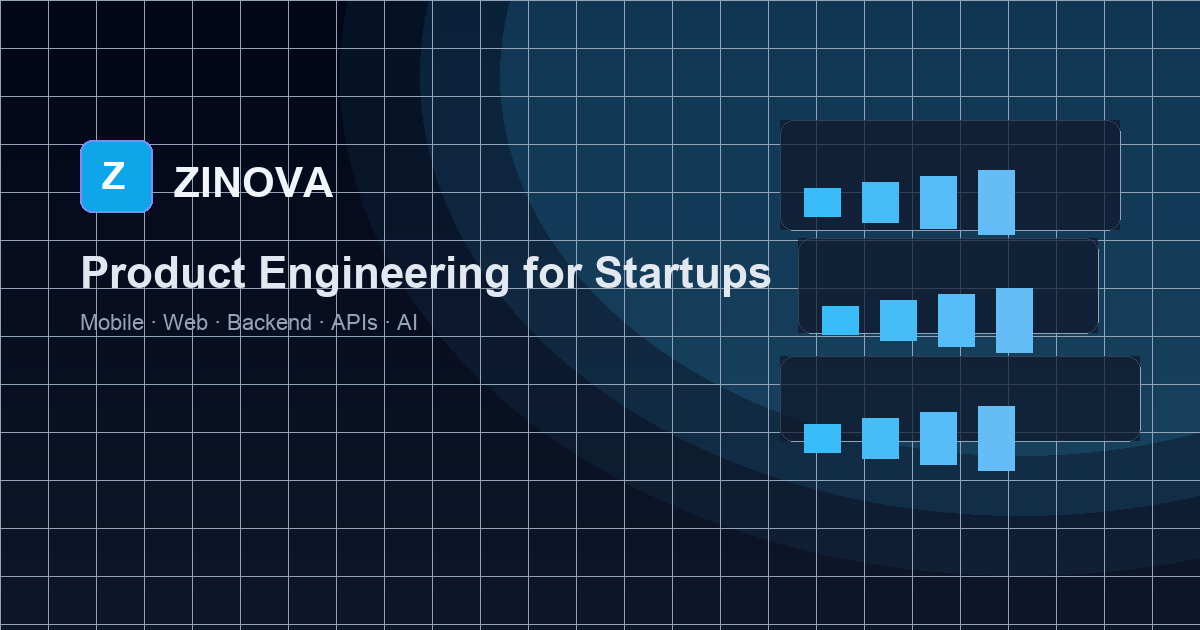
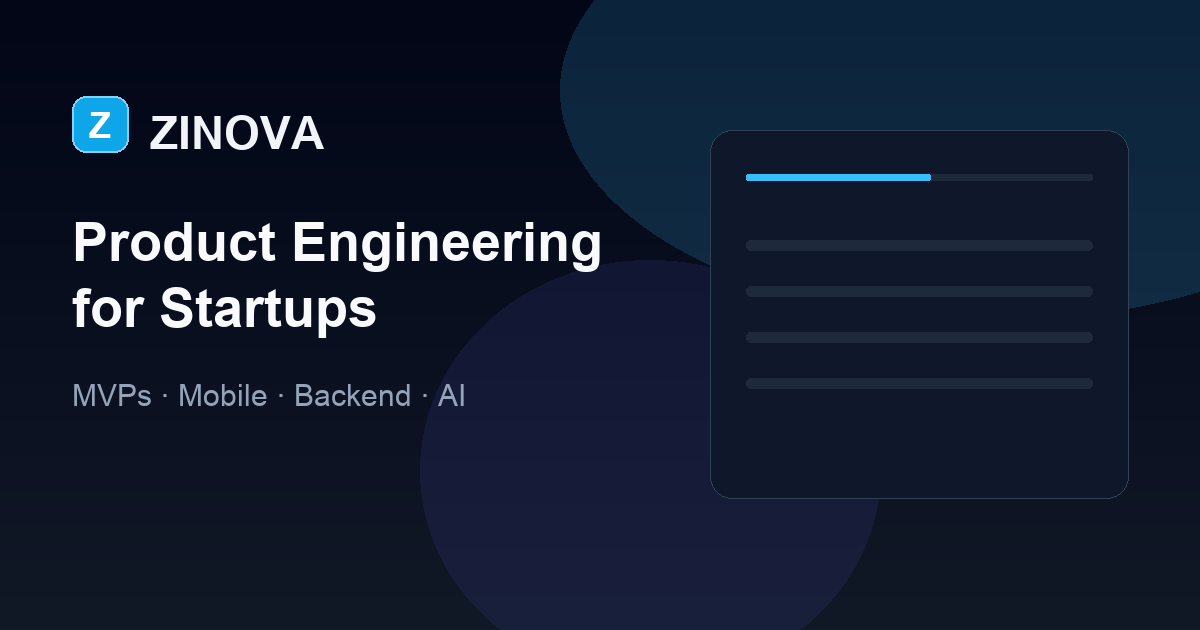
Fix mobile overflow and improve social preview image

Changed region(s): [[0.0308, 0.0, 1.0, 0.8444], [0.0617, 0.6032, 0.4008, 0.6635]]

diff --git a/assets/css/zinova-overrides.css b/assets/css/zinova-overrides.css
@@ -1,6 +1,18 @@
+html {
+  max-width: 100%;
+  overflow-x: hidden;
+}
+
 body {
   -webkit-font-smoothing: antialiased;
   -moz-osx-font-smoothing: grayscale;
+  max-width: 100%;
+  overflow-x: hidden;
+  position: relative;
+}
+
+.row > [class*="col"] {
+  min-width: 0;
 }
 
 :root {
@@ -302,6 +314,7 @@ footer.zinova-footer {
   width: 100%;
   position: relative;
   min-height: 64px;
+  min-width: 0;
 }
 
 .header-area .main-nav.zinova-main-nav .zinova-nav-inner .logo {
@@ -613,6 +626,10 @@ footer.zinova-footer {
   font-size: 14px;
   color: var(--zinova-text-muted);
   transition: border-color 0.25s ease, box-shadow 0.25s ease;
+  max-width: 100%;
+  white-space: normal;
+  text-align: center;
+  overflow-wrap: anywhere;
 }
 
 .zinova-pill-list span:hover {
@@ -980,24 +997,27 @@ button.main-button:hover {
 
 .zinova-hero-visual-wrap {
   position: relative;
+  max-width: 100%;
 }
 
 .zinova-hero-visual {
   position: relative;
   width: 100%;
-  max-width: 380px;
+  max-width: min(380px, 100%);
+  overflow: hidden;
+  border-radius: var(--zinova-radius-xl);
   animation: zinova-hero-float 22s ease-in-out infinite;
 }
 
 .zinova-hero-visual-glow {
   position: absolute;
-  width: 320px;
-  height: 320px;
+  width: min(320px, 85vw);
+  height: min(320px, 85vw);
   border-radius: 50%;
   background: radial-gradient(circle, rgba(56, 189, 248, 0.35) 0%, rgba(129, 140, 248, 0.12) 45%, transparent 68%);
   filter: blur(16px);
   top: -56px;
-  right: -36px;
+  right: max(-36px, calc(-1 * min(28px, 5vw)));
   pointer-events: none;
   opacity: 0.85;
 }
@@ -1156,10 +1176,13 @@ button.main-button:hover {
   padding: 12px 14px;
   font-family: ui-monospace, SFMono-Regular, Menlo, Monaco, Consolas, monospace;
   font-size: 12px;
+  max-width: 100%;
 }
 
 .zinova-hero-terminal-line {
   color: #e2e8f0;
+  overflow-wrap: anywhere;
+  word-break: break-word;
 }
 
 .zinova-hero-key {
@@ -1216,7 +1239,9 @@ button.main-button:hover {
 
 .zinova-hero-visual--compact {
   animation: none;
-  max-width: none;
+  box-sizing: border-box;
+  width: 100%;
+  max-width: 100%;
   margin-top: 12px;
   padding: 18px 16px;
   border-radius: var(--zinova-radius-lg);
@@ -1228,14 +1253,21 @@ button.main-button:hover {
 .zinova-hero-rail--compact {
   justify-content: center;
   margin-bottom: 12px;
-  gap: 10px;
+  gap: 8px;
+  row-gap: 10px;
+  flex-wrap: wrap;
 }
 
 .zinova-hero-mini-api {
   text-align: center;
   font-family: ui-monospace, SFMono-Regular, Menlo, Monaco, Consolas, monospace;
-  font-size: 12px;
+  font-size: clamp(10px, 2.9vw, 12px);
   color: rgba(226, 232, 240, 0.88);
+  max-width: 100%;
+  overflow-wrap: anywhere;
+  word-break: break-word;
+  padding-left: 4px;
+  padding-right: 4px;
 }
 
 .zinova-hero-visual--compact .zinova-hero-key {
@@ -1416,6 +1448,22 @@ a.main-button-secondary:hover {
     opacity: 1 !important;
     transform: none !important;
     transition: none !important;
+  }
+
+  .zinova-service-card:hover,
+  .zinova-cap-card:hover,
+  .zinova-studio-panel:hover {
+    transform: none !important;
+  }
+
+  .zinova-hero-panel:hover {
+    transform: none !important;
+  }
+
+  a.main-button-slider:hover,
+  button.main-button:hover,
+  a.main-button-secondary:hover {
+    transform: none !important;
   }
 }
 

diff --git a/index.html b/index.html
@@ -37,8 +37,8 @@
   <link rel="stylesheet" type="text/css" href="assets/css/font-awesome.css">
   <link rel="stylesheet" href="assets/css/templatemo-lava.css">
   <link rel="stylesheet" href="assets/css/owl-carousel.css">
-  <link rel="stylesheet" href="assets/css/zinova-overrides.css?v=20260515">
-  <link rel="stylesheet" href="assets/css/zinova-rtl.css?v=20260515">
+  <link rel="stylesheet" href="assets/css/zinova-overrides.css?v=20260516">
+  <link rel="stylesheet" href="assets/css/zinova-rtl.css?v=20260516">
 
   <script type="application/ld+json">
   {
@@ -98,7 +98,7 @@
       <div class="container">
         <div class="row align-items-center zinova-hero-row">
           <div class="left-text col-lg-7 col-md-12 col-sm-12 col-xs-12"
-            data-scroll-reveal="enter left move 30px over 0.6s after 0.4s">
+            data-scroll-reveal="enter bottom move 28px over 0.6s after 0.35s">
             <p class="zinova-hero-tagline">Founder-led engineering studio for startups and high-growth businesses.</p>
             <h1>Ship products with the discipline of a <em>senior engineering studio</em>.</h1>
             <p class="zinova-hero-lead">Zinova is a focused engineering studio — we design and deliver reliable mobile, web, backend, and AI-assisted software for startups and growing companies, with steady technical leadership from discovery through delivery.</p>
@@ -455,7 +455,7 @@
   <script src="assets/js/waypoints.min.js"></script>
   <script src="assets/js/jquery.counterup.min.js"></script>
   <script src="assets/js/imgfix.min.js"></script>
-  <script src="assets/js/custom.js?v=20260515"></script>
+  <script src="assets/js/custom.js?v=20260516"></script>
 
   <script>
     function submitStrategyCall(form) {

diff --git a/ar/index.html b/ar/index.html
@@ -35,8 +35,8 @@
   <link rel="stylesheet" type="text/css" href="../assets/css/font-awesome.css">
   <link rel="stylesheet" href="../assets/css/templatemo-lava.css">
   <link rel="stylesheet" href="../assets/css/owl-carousel.css">
-  <link rel="stylesheet" href="../assets/css/zinova-overrides.css?v=20260515">
-  <link rel="stylesheet" href="../assets/css/zinova-rtl.css?v=20260515">
+  <link rel="stylesheet" href="../assets/css/zinova-overrides.css?v=20260516">
+  <link rel="stylesheet" href="../assets/css/zinova-rtl.css?v=20260516">
 </head>
 
 <body class="zinova-has-dark-hero">
@@ -426,7 +426,7 @@
   <script src="../assets/js/waypoints.min.js"></script>
   <script src="../assets/js/jquery.counterup.min.js"></script>
   <script src="../assets/js/imgfix.min.js"></script>
-  <script src="../assets/js/custom.js?v=20260515"></script>
+  <script src="../assets/js/custom.js?v=20260516"></script>
 
   <script>
     function submitStrategyCallAr(form) {

diff --git a/ar/privacy.html b/ar/privacy.html
@@ -31,8 +31,8 @@
   <link rel="stylesheet" type="text/css" href="../assets/css/bootstrap.min.css">
   <link rel="stylesheet" type="text/css" href="../assets/css/font-awesome.css">
   <link rel="stylesheet" href="../assets/css/templatemo-lava.css">
-  <link rel="stylesheet" href="../assets/css/zinova-overrides.css?v=20260515">
-  <link rel="stylesheet" href="../assets/css/zinova-rtl.css?v=20260515">
+  <link rel="stylesheet" href="../assets/css/zinova-overrides.css?v=20260516">
+  <link rel="stylesheet" href="../assets/css/zinova-rtl.css?v=20260516">
 </head>
 
 <body class="zinova-ar-legal">
@@ -152,7 +152,7 @@
   <script src="../assets/js/popper.js"></script>
   <script src="../assets/js/bootstrap.min.js"></script>
   <script src="../assets/js/scrollreveal.min.js"></script>
-  <script src="../assets/js/custom.js?v=20260515"></script>
+  <script src="../assets/js/custom.js?v=20260516"></script>
 </body>
 
 </html>

diff --git a/ar/terms.html b/ar/terms.html
@@ -31,8 +31,8 @@
   <link rel="stylesheet" type="text/css" href="../assets/css/bootstrap.min.css">
   <link rel="stylesheet" type="text/css" href="../assets/css/font-awesome.css">
   <link rel="stylesheet" href="../assets/css/templatemo-lava.css">
-  <link rel="stylesheet" href="../assets/css/zinova-overrides.css?v=20260515">
-  <link rel="stylesheet" href="../assets/css/zinova-rtl.css?v=20260515">
+  <link rel="stylesheet" href="../assets/css/zinova-overrides.css?v=20260516">
+  <link rel="stylesheet" href="../assets/css/zinova-rtl.css?v=20260516">
 </head>
 
 <body class="zinova-ar-legal">
@@ -144,7 +144,7 @@
   <script src="../assets/js/popper.js"></script>
   <script src="../assets/js/bootstrap.min.js"></script>
   <script src="../assets/js/scrollreveal.min.js"></script>
-  <script src="../assets/js/custom.js?v=20260515"></script>
+  <script src="../assets/js/custom.js?v=20260516"></script>
 </body>
 
 </html>

diff --git a/ar/mvp-development.html b/ar/mvp-development.html
@@ -30,8 +30,8 @@
   <link rel="stylesheet" type="text/css" href="../assets/css/bootstrap.min.css">
   <link rel="stylesheet" type="text/css" href="../assets/css/font-awesome.css">
   <link rel="stylesheet" href="../assets/css/templatemo-lava.css">
-  <link rel="stylesheet" href="../assets/css/zinova-overrides.css?v=20260515">
-  <link rel="stylesheet" href="../assets/css/zinova-rtl.css?v=20260515">
+  <link rel="stylesheet" href="../assets/css/zinova-overrides.css?v=20260516">
+  <link rel="stylesheet" href="../assets/css/zinova-rtl.css?v=20260516">
 </head>
 
 <body>
@@ -122,7 +122,7 @@
   <script src="../assets/js/popper.js"></script>
   <script src="../assets/js/bootstrap.min.js"></script>
   <script src="../assets/js/scrollreveal.min.js"></script>
-  <script src="../assets/js/custom.js?v=20260515"></script>
+  <script src="../assets/js/custom.js?v=20260516"></script>
 </body>
 
 </html>

diff --git a/ar/mvp-discovery.html b/ar/mvp-discovery.html
@@ -30,8 +30,8 @@
   <link rel="stylesheet" type="text/css" href="../assets/css/bootstrap.min.css">
   <link rel="stylesheet" type="text/css" href="../assets/css/font-awesome.css">
   <link rel="stylesheet" href="../assets/css/templatemo-lava.css">
-  <link rel="stylesheet" href="../assets/css/zinova-overrides.css?v=20260515">
-  <link rel="stylesheet" href="../assets/css/zinova-rtl.css?v=20260515">
+  <link rel="stylesheet" href="../assets/css/zinova-overrides.css?v=20260516">
+  <link rel="stylesheet" href="../assets/css/zinova-rtl.css?v=20260516">
 </head>
 
 <body>
@@ -122,7 +122,7 @@
   <script src="../assets/js/popper.js"></script>
   <script src="../assets/js/bootstrap.min.js"></script>
   <script src="../assets/js/scrollreveal.min.js"></script>
-  <script src="../assets/js/custom.js?v=20260515"></script>
+  <script src="../assets/js/custom.js?v=20260516"></script>
 </body>
 
 </html>

diff --git a/privacy.html b/privacy.html
@@ -31,8 +31,8 @@
   <link rel="stylesheet" type="text/css" href="assets/css/bootstrap.min.css">
   <link rel="stylesheet" type="text/css" href="assets/css/font-awesome.css">
   <link rel="stylesheet" href="assets/css/templatemo-lava.css">
-  <link rel="stylesheet" href="assets/css/zinova-overrides.css?v=20260515">
-  <link rel="stylesheet" href="assets/css/zinova-rtl.css?v=20260515">
+  <link rel="stylesheet" href="assets/css/zinova-overrides.css?v=20260516">
+  <link rel="stylesheet" href="assets/css/zinova-rtl.css?v=20260516">
 </head>
 
 <body>
@@ -153,7 +153,7 @@
   <script src="assets/js/popper.js"></script>
   <script src="assets/js/bootstrap.min.js"></script>
   <script src="assets/js/scrollreveal.min.js"></script>
-  <script src="assets/js/custom.js?v=20260515"></script>
+  <script src="assets/js/custom.js?v=20260516"></script>
 </body>
 
 </html>

diff --git a/terms.html b/terms.html
@@ -31,8 +31,8 @@
   <link rel="stylesheet" type="text/css" href="assets/css/bootstrap.min.css">
   <link rel="stylesheet" type="text/css" href="assets/css/font-awesome.css">
   <link rel="stylesheet" href="assets/css/templatemo-lava.css">
-  <link rel="stylesheet" href="assets/css/zinova-overrides.css?v=20260515">
-  <link rel="stylesheet" href="assets/css/zinova-rtl.css?v=20260515">
+  <link rel="stylesheet" href="assets/css/zinova-overrides.css?v=20260516">
+  <link rel="stylesheet" href="assets/css/zinova-rtl.css?v=20260516">
 </head>
 
 <body>
@@ -145,7 +145,7 @@
   <script src="assets/js/popper.js"></script>
   <script src="assets/js/bootstrap.min.js"></script>
   <script src="assets/js/scrollreveal.min.js"></script>
-  <script src="assets/js/custom.js?v=20260515"></script>
+  <script src="assets/js/custom.js?v=20260516"></script>
 </body>
 
 </html>

diff --git a/mvp-development.html b/mvp-development.html
@@ -28,8 +28,8 @@
   <link rel="stylesheet" type="text/css" href="assets/css/bootstrap.min.css">
   <link rel="stylesheet" type="text/css" href="assets/css/font-awesome.css">
   <link rel="stylesheet" href="assets/css/templatemo-lava.css">
-  <link rel="stylesheet" href="assets/css/zinova-overrides.css?v=20260515">
-  <link rel="stylesheet" href="assets/css/zinova-rtl.css?v=20260515">
+  <link rel="stylesheet" href="assets/css/zinova-overrides.css?v=20260516">
+  <link rel="stylesheet" href="assets/css/zinova-rtl.css?v=20260516">
 </head>
 
 <body>
@@ -121,6 +121,6 @@
   <script src="assets/js/popper.js"></script>
   <script src="assets/js/bootstrap.min.js"></script>
   <script src="assets/js/scrollreveal.min.js"></script>
-  <script src="assets/js/custom.js?v=20260515"></script>
+  <script src="assets/js/custom.js?v=20260516"></script>
 </body>
 </html>

diff --git a/mvp-discovery.html b/mvp-discovery.html
@@ -28,8 +28,8 @@
   <link rel="stylesheet" type="text/css" href="assets/css/bootstrap.min.css">
   <link rel="stylesheet" type="text/css" href="assets/css/font-awesome.css">
   <link rel="stylesheet" href="assets/css/templatemo-lava.css">
-  <link rel="stylesheet" href="assets/css/zinova-overrides.css?v=20260515">
-  <link rel="stylesheet" href="assets/css/zinova-rtl.css?v=20260515">
+  <link rel="stylesheet" href="assets/css/zinova-overrides.css?v=20260516">
+  <link rel="stylesheet" href="assets/css/zinova-rtl.css?v=20260516">
 </head>
 
 <body>
@@ -121,6 +121,6 @@
   <script src="assets/js/popper.js"></script>
   <script src="assets/js/bootstrap.min.js"></script>
   <script src="assets/js/scrollreveal.min.js"></script>
-  <script src="assets/js/custom.js?v=20260515"></script>
+  <script src="assets/js/custom.js?v=20260516"></script>
 </body>
 </html>

diff --git a/assets/css/zinova-rtl.css b/assets/css/zinova-rtl.css
@@ -119,6 +119,19 @@
   }
 }
 
+@media (max-width: 991px) {
+  [dir="rtl"] .header-area .main-nav.zinova-main-nav .zinova-nav-inner .logo {
+    margin-left: auto !important;
+    margin-right: 0 !important;
+    text-align: right !important;
+  }
+
+  [dir="rtl"] .header-area .main-nav.zinova-main-nav .menu-trigger {
+    right: auto !important;
+    left: 15px !important;
+  }
+}
+
 [dir="rtl"] .zinova-cred-list li {
   padding-left: 0;
   padding-right: 28px;
